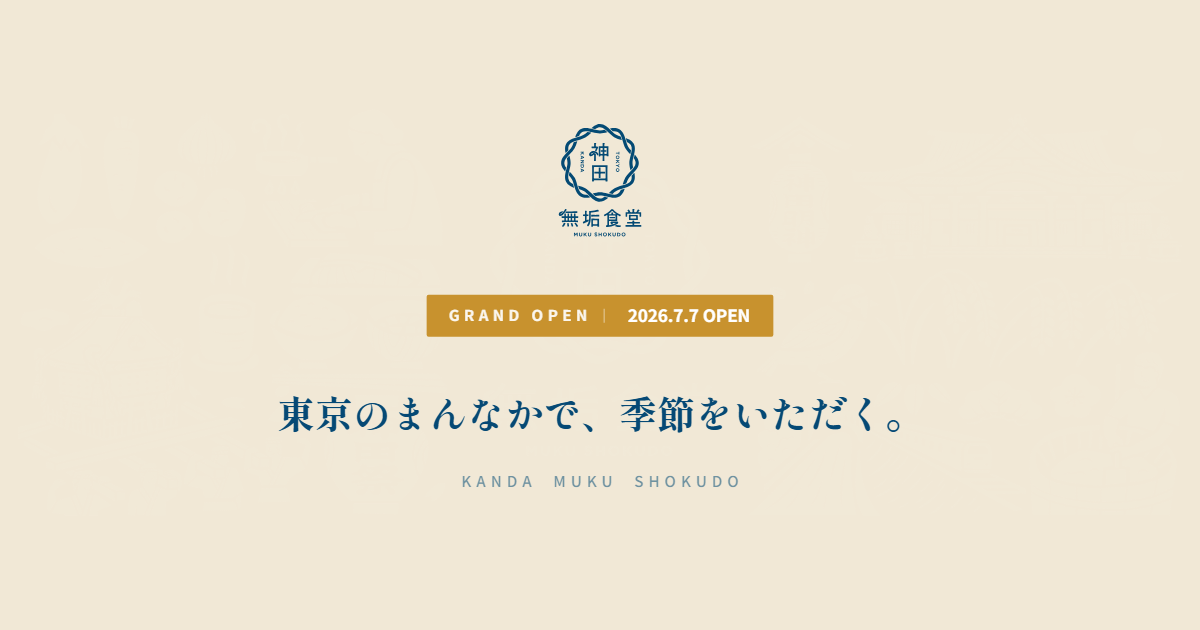
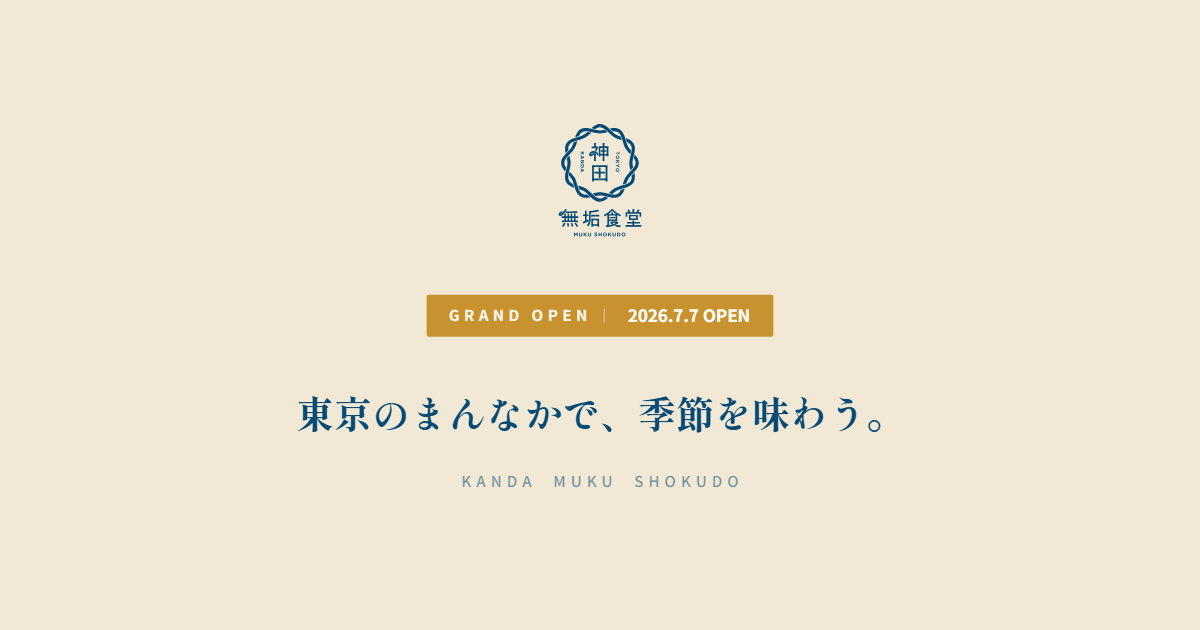
「味わう。」に修正

Changed region(s): [[0.2158, 0.6333, 0.7708, 0.6937]]

diff --git a/index.html b/index.html
@@ -15,11 +15,11 @@
   </svg>
 </template>
 <helmet>
-<title>神田無垢食堂 | 東京のまんなかで、季節をいただく。</title>
+<title>神田無垢食堂 | 東京のまんなかで、季節を味わう。</title>
 <meta name="description" content="神田無垢食堂 — 東京のまんなかで、二十四節気に合わせた旬のごはんを。2026年7月7日オープン。ディナーは完全予約制。">
 <meta property="og:type" content="website">
 <meta property="og:site_name" content="神田無垢食堂">
-<meta property="og:title" content="神田無垢食堂 | 東京のまんなかで、季節をいただく。">
+<meta property="og:title" content="神田無垢食堂 | 東京のまんなかで、季節を味わう。">
 <meta property="og:description" content="二十四節気に合わせた旬のごはんを神田で。2026年7月7日オープン。ディナーは完全予約制。">
 <meta property="og:url" content="https://kandamukushokudo.yamori.jp/">
 <meta property="og:image" content="https://kandamukushokudo.yamori.jp/assets/ogp.png">
@@ -27,7 +27,7 @@
 <meta property="og:image:height" content="630">
 <meta property="og:locale" content="ja_JP">
 <meta name="twitter:card" content="summary_large_image">
-<meta name="twitter:title" content="神田無垢食堂 | 東京のまんなかで、季節をいただく。">
+<meta name="twitter:title" content="神田無垢食堂 | 東京のまんなかで、季節を味わう。">
 <meta name="twitter:description" content="二十四節気に合わせた旬のごはんを神田で。2026年7月7日オープン。ディナーは完全予約制。">
 <meta name="twitter:image" content="https://kandamukushokudo.yamori.jp/assets/ogp.png">
 <link rel="preconnect" href="https://fonts.googleapis.com">
@@ -43,11 +43,10 @@
   @keyframes muku-rise{from{transform:translateY(16px);}to{transform:translateY(0);}}
   @keyframes muku-fade{from{transform:translateY(8px);}to{transform:translateY(0);}}
   image-slot{display:block;}
-  .ig-tile{position:relative;display:block;text-decoration:none;}
   .ig-tile:hover .ig-overlay{opacity:1 !important;}
   .gal-2x2{grid-column:span 2;grid-row:span 2;}
-  .gal-1x1{grid-column:span 1;grid-row:span 1;}
   .gal-2x1{grid-column:span 2;grid-row:span 1;}
+  .gal-1x1{grid-column:span 1;grid-row:span 1;}
 
   /* ===== レスポンシブ対応 ===== */
   @media (max-width:820px){
@@ -141,7 +140,7 @@
       <span style="font-size:14px;letter-spacing:0.16em;font-weight:700;">2026.7.7 OPEN</span>
     </div>
     <img src="assets/logo.svg" alt="神田無垢食堂" style="width: 360px; height: auto; margin-bottom: 36px; animation: muku-rise 1s ease both">
-    <div id="hero-title-shift" style="transform:translateX(40px);"><h1 style="font-size: 64px; font-weight: 700; line-height: 1.5; color: #054975; letter-spacing: 0.08em; margin-bottom: 26px; animation: muku-rise 1s ease 0.1s both; margin-left: 0px; padding-left: 0px;">東京のまんなかで、<br>季節をいただく。</h1></div>
+    <div id="hero-title-shift" style="transform:translateX(40px);"><h1 style="font-size: 64px; font-weight: 700; line-height: 1.5; color: #054975; letter-spacing: 0.08em; margin-bottom: 26px; animation: muku-rise 1s ease 0.1s both; margin-left: 0px; padding-left: 0px;">東京のまんなかで、<br>季節を味わう。</h1></div>
     <p style="font-size: 16px; line-height: 2.2; color: #4a4740; letter-spacing: 0.06em; animation: muku-rise 1s ease 0.2s both">神田のオフィス街で働く人たちにも、旬の訪れを感じてもらいたい。<br>二十四節気に合わせて献立を変えながら、その時季ならではの食材をお届けします。<br>今日の一皿が、季節の便りになりますように。</p>
     <img src="assets/keyvisual_trans.svg" alt="" style="width:min(1180px,96%);height:auto;margin-top:6px;animation:muku-fade 1.6s ease 0.3s both;">
   </section>
@@ -284,7 +283,7 @@
       </div>
       <div style="display:grid;grid-template-columns:repeat(4,1fr);grid-auto-rows:200px;gap:14px;">
         <sc-for list="{{ gallery }}" as="g" hint-placeholder-count="6">
-          <a href="https://www.instagram.com/kanda_mukushokudo/" target="_blank" rel="noopener" class="ig-tile {{ g.cls }}">
+          <a href="https://www.instagram.com/kanda_mukushokudo/" target="_blank" rel="noopener" class="ig-tile {{ g.cls }}" style="position:relative;display:block;text-decoration:none;">
             <image-slot id="{{ g.id }}" style="width:100%;height:100%;display:block;" shape="rounded" radius="3" placeholder="{{ g.ph }}"></image-slot>
             <span class="ig-overlay" style="position:absolute;inset:0;border-radius:3px;background:rgba(5,73,117,0.42);opacity:0;transition:opacity 0.25s ease;display:flex;align-items:center;justify-content:center;pointer-events:none;">
               <svg width="30" height="30" viewBox="0 0 24 24" fill="none" stroke="#faf6ec" stroke-width="1.5"><rect x="3" y="3" width="18" height="18" rx="5"></rect><circle cx="12" cy="12" r="4"></circle><circle cx="17.2" cy="6.8" r="1.1" fill="#faf6ec" stroke="none"></circle></svg>